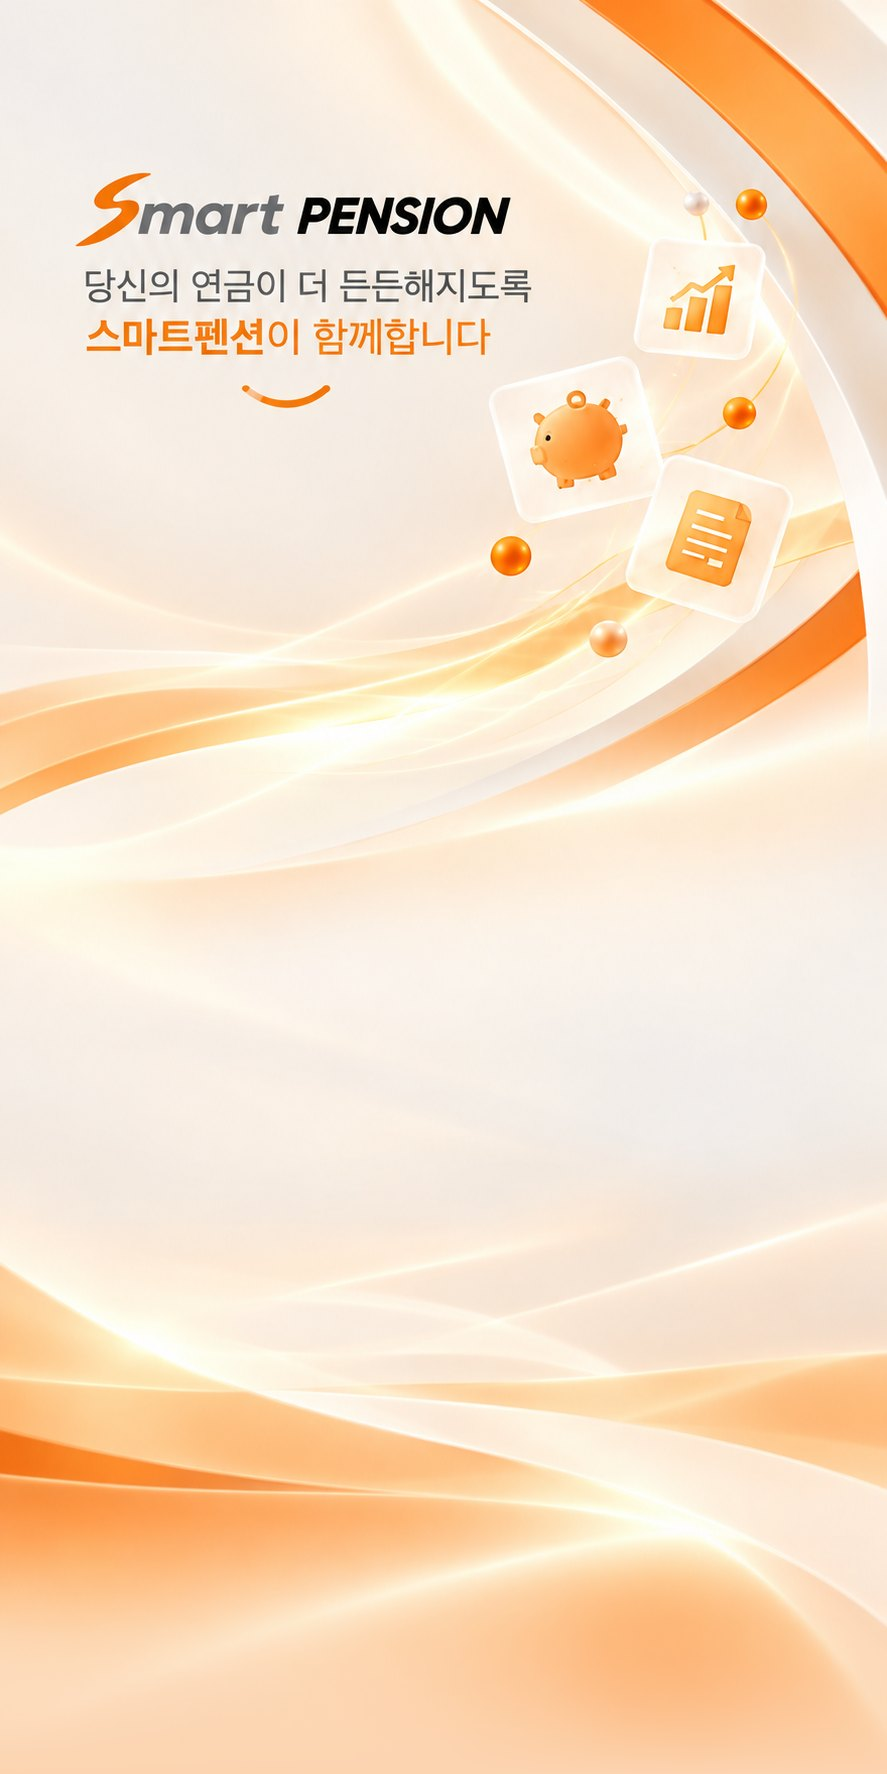
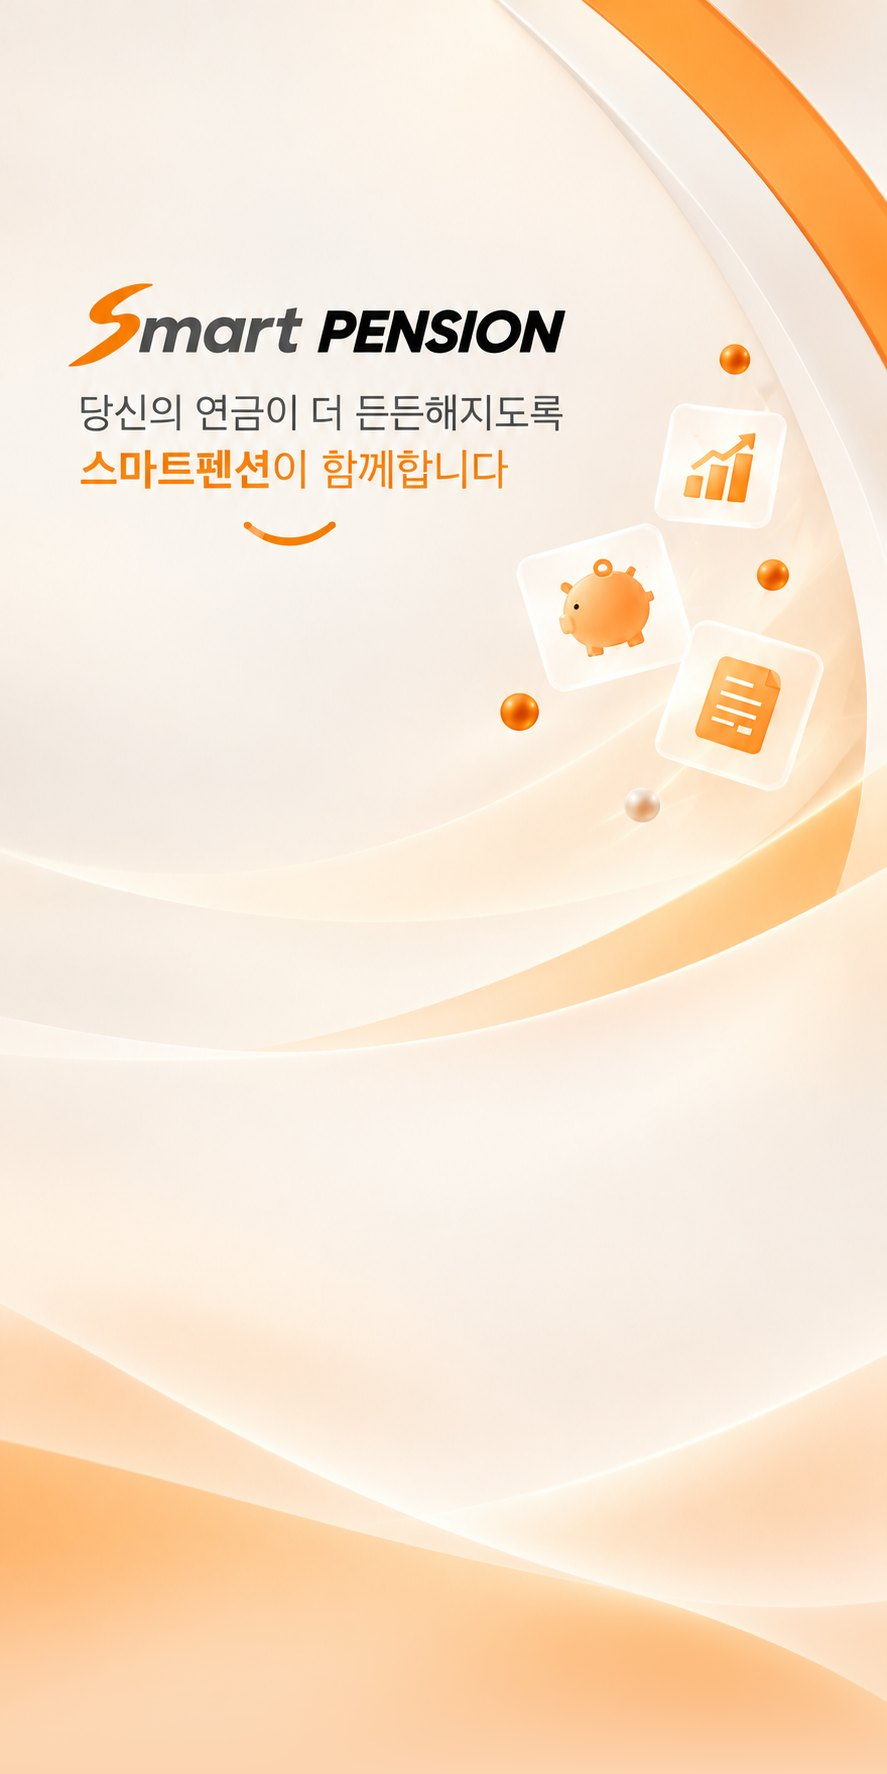
로그인 화면(모바일) 배경 이미지를 새 버전으로 교체
새 이미지는 로고·아이콘이 조금 아래에 있어 배경을 화면 폭의 18%만큼 위로 올려
로고는 상단 가까이, 차트·돼지·문서 아이콘은 로그인 카드에 가려지지 않게 배치.
캐시 갱신용 버전 v=2. 웹(데스크톱) 화면은 변경 없음.

Claude-Session: https://claude.ai/code/session_01Y9rPQeFxpHUdFNMPZWthez

diff --git a/templates/login.html b/templates/login.html
@@ -9,7 +9,7 @@ if (window.top !== window) { try { window.top.location.href = location.href; } c
 <style>
 *,*::before,*::after{box-sizing:border-box;margin:0;padding:0}
 body{font-family:'Malgun Gothic','맑은 고딕',-apple-system,BlinkMacSystemFont,sans-serif;color:#222;
-     min-height:100vh;background:#FCD4B0 url('/static/images/login_bg.jpg?v=1') no-repeat center top;background-size:100% auto}
+     min-height:100vh;background:#FCD4B0 url('/static/images/login_bg.jpg?v=2') no-repeat center -18vw;background-size:100% auto}
 .lg-wrap{min-height:100vh;min-height:100dvh;max-width:480px;margin:0 auto;display:flex;flex-direction:column}
 /* 상단: 로고 + 타이틀 (모바일은 배경 이미지에 로고·문구가 포함되어 있어 글자는 화면에서 숨기고 자리만 확보) */
 .lg-top{padding:40px 28px 0;min-height:74vw;box-sizing:border-box}
